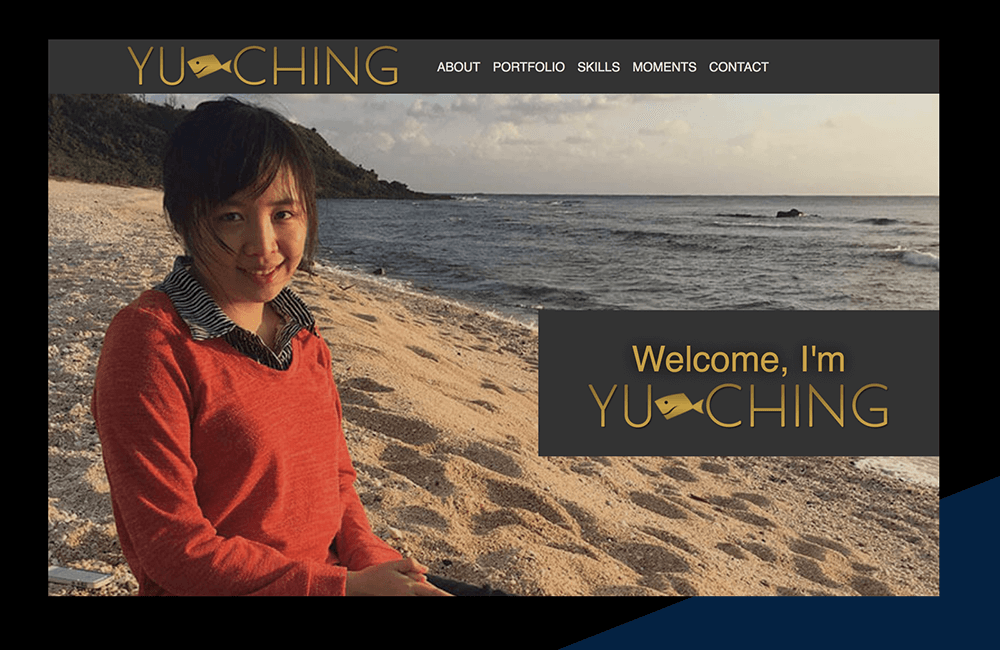
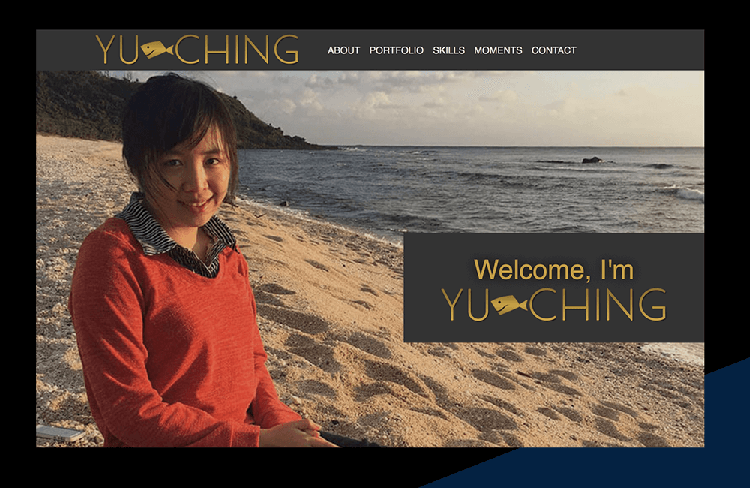
pic resize

diff --git a/about.html b/about.html
@@ -68,30 +68,33 @@
 		<div class="container">
 
 
-			<div class="col-12 col-lg-8" style="margin: 0 auto;">
+			<div class="col-12 col-lg-9" style="margin: 0 auto;">
 				<div class="bg-section">
 					<p>
 						<b>I am Yu-Ching, a UX/UI designer.</b>
 					</p>
 
-					<p>The reason that I love the UI/UX job is that it needs a lot of reflections. This job needs to think about
-						every aspect thoroughly and cultivating me to be open-minded and have the courage to deal with my own fault.
-						After the process, my thinking will be improved a lot.
+					<p>The reason that I love UX/UI design is that it requires many considerations. In this role, I need
+						to review every aspect of each project thoroughly, which helps cultivate open-mindedness. With
+						each completed project, my thinking process improves.
 					</p>
 
 					<p>
-						I graduated from <b>National Cheng Kung University</b> with a degree in <b>Psychology</b>. My
-						training taught
-						me to conduct psychology experiments, analyze data and draw conclusions. This robust foundation
-						has proven very helpful in understanding and conducting user research.
+						I received my degree in <b>Psychology</b> from <b>National Cheng Kung University</b>. Throughout
+						the course of
+						my studies, I learned how to conduct psychological experiments, analyze data, and draw
+						conclusions. This robust foundation has many applications and parallels in understanding and
+						conducting user research.
 
 					</p>
 
 					<p>
-						I born and grew up in <b>Taiwan</b> with a great zeal for exploring the world and learning
-						cross-domain. As a self-motivated individual, I keep pursuing cutting-edge design theory or
-						front-end techniques. I enjoy working with a combination of these elements to solve a problem or
-						create a user-centered design.
+						I was born and raised in <b>Taiwan</b> with a great zeal for exploring the world and learning.
+						As a
+						self-motivated worker, I continue to pursue learning opportunities for cutting-edge design
+						theory and front-end techniques. I enjoy working with a combination of elements when solving
+						problems or creating user-centered designs.
+
 					</p>
 
 					<p>
@@ -102,7 +105,7 @@
 
 					<div class="row sm-section">
 						<div class="col col-12 col-md-6">
-							<span>Fields I specialize in</span><br>
+							<span>Specializations</span><br>
 
 							Interface Design (Sketch, Figma, InVision)<br>
 							Front-end Development (CSS, JS, VueJS)<br>
@@ -111,7 +114,8 @@
 
 						<div class="col col-12 col-md-6">
 							<span>Connect with me</span><br>
-							yuyuchinglin@gmail.com<br>
+							E-mail: yuyuchinglin@gmail.com<br>
+							LinkedIn: Yu-Ching Lin
 
 						</div>
 
@@ -147,42 +151,51 @@
 				<div class="col-12 p-0" style="margin:0 auto">
 
 
-					<a target="_blank" href="https://www.instagram.com/p/B3wASTtFNGV/?utm_source=ig_web_button_share_sheet"
+					<a target="_blank"
+						href="https://www.instagram.com/p/B3wASTtFNGV/?utm_source=ig_web_button_share_sheet"
 						style="background-image: url(https://instagram.ftpe3-1.fna.fbcdn.net/vp/bad721eb732ec7f5363d6cd505780b39/5E4884DB/t51.2885-15/sh0.08/e35/s640x640/72581297_2372377662890314_8206483572672468511_n.jpg?_nc_ht=instagram.ftpe3-1.fna.fbcdn.net&_nc_cat=110);"
 						alt="flowers in Korea" class="ig-photo"></a>
 
-					<a target="_blank" href="https://www.instagram.com/p/BeXg-QFB62n/?utm_source=ig_web_button_share_sheet"
+					<a target="_blank"
+						href="https://www.instagram.com/p/BeXg-QFB62n/?utm_source=ig_web_button_share_sheet"
 						style="background-image: url(https://instagram.ftpe3-1.fna.fbcdn.net/vp/7d697e8a195fbbac3064981eba8992da/5E63B4CD/t51.2885-15/e35/26226688_342088369606569_1301617258124017664_n.jpg?_nc_ht=instagram.ftpe3-1.fna.fbcdn.net&_nc_cat=109);"
 						alt="Casino in Las Vegas" class="ig-photo"></a>
 
-					<a target="_blank" href="https://www.instagram.com/p/Be2RSlNBCV_/?utm_source=ig_web_button_share_sheet"
+					<a target="_blank"
+						href="https://www.instagram.com/p/Be2RSlNBCV_/?utm_source=ig_web_button_share_sheet"
 						style="background-image: url(https://instagram.ftpe3-2.fna.fbcdn.net/vp/9f584d5c84b2295a3bcded20b208dda3/5E543E2F/t51.2885-15/e35/26869636_167033143919585_8942020403014926336_n.jpg?_nc_ht=instagram.ftpe3-2.fna.fbcdn.net&_nc_cat=105);"
 						alt="Skateboard in Venice, California" class="ig-photo"></a>
 
 
-					<a target="_blank" href="https://www.instagram.com/p/BeA34Xwh2v1/?utm_source=ig_web_button_share_sheet"
+					<a target="_blank"
+						href="https://www.instagram.com/p/BeA34Xwh2v1/?utm_source=ig_web_button_share_sheet"
 						style="background-image: url(https://instagram.ftpe3-1.fna.fbcdn.net/vp/9ab23d18c6af04d64d40990c9ac54708/5E500C19/t51.2885-15/e35/26156981_1896254090705267_1688690297933922304_n.jpg?_nc_ht=instagram.ftpe3-1.fna.fbcdn.net&_nc_cat=111);"
 						alt="Driving in Los Angeles, California" class="ig-photo"></a>
 
 
-					<a target="_blank" href="https://www.instagram.com/p/BW13Fy8BXhA/?utm_source=ig_web_button_share_sheet"
+					<a target="_blank"
+						href="https://www.instagram.com/p/BW13Fy8BXhA/?utm_source=ig_web_button_share_sheet"
 						style="background-image: url(https://instagram.ftpe3-2.fna.fbcdn.net/vp/678a71e4bdc914d63713e0f451189b79/5E51BBB0/t51.2885-15/e35/20184726_728850670573099_3374121162366779392_n.jpg?_nc_ht=instagram.ftpe3-2.fna.fbcdn.net&_nc_cat=107);"
 						alt="Astonishing view in Greenwich Park, London" class="ig-photo"></a>
 
-					<a target="_blank" href="https://www.instagram.com/p/BWz8BZJh4Uz/?utm_source=ig_web_button_share_sheet"
+					<a target="_blank"
+						href="https://www.instagram.com/p/BWz8BZJh4Uz/?utm_source=ig_web_button_share_sheet"
 						style="background-image: url(https://instagram.ftpe3-2.fna.fbcdn.net/vp/29b3bff1c3e63257558d204a4122551e/5E62272A/t51.2885-15/e35/20181072_243928349450959_6118626120871968768_n.jpg?_nc_ht=instagram.ftpe3-2.fna.fbcdn.net&_nc_cat=107);"
 						alt="Portobello Road Market, London" class="ig-photo"></a>
 
-					<a target="_blank" href="https://www.instagram.com/p/BWyNLKRBv9v/?utm_source=ig_web_button_share_sheet"
+					<a target="_blank"
+						href="https://www.instagram.com/p/BWyNLKRBv9v/?utm_source=ig_web_button_share_sheet"
 						style="background-image: url(https://instagram.ftpe3-1.fna.fbcdn.net/vp/56b50d65e9dd8c1a8d4f9bff9e9119a5/5E5C813A/t51.2885-15/e35/20225505_103295190315285_7854362214960988160_n.jpg?_nc_ht=instagram.ftpe3-1.fna.fbcdn.net&_nc_cat=109);"
 						alt="Bath, United Kingdom" class="ig-photo"></a>
 
-					<a target="_blank" href="https://www.instagram.com/p/BWu8HHxB7w1/?utm_source=ig_web_button_share_sheet"
+					<a target="_blank"
+						href="https://www.instagram.com/p/BWu8HHxB7w1/?utm_source=ig_web_button_share_sheet"
 						style="background-image: url(https://instagram.ftpe3-2.fna.fbcdn.net/vp/ebe17ea593c8812223ccbec690ad7a25/5E3FBF55/t51.2885-15/e35/20066902_249656312192247_4750552868136681472_n.jpg?_nc_ht=instagram.ftpe3-2.fna.fbcdn.net&_nc_cat=103);"
 						alt="St. Paul's Cathedral in London" class="ig-photo"></a>
 
 
-					<a target="_blank" href="https://www.instagram.com/p/BWqLgXjhsm6/?utm_source=ig_web_button_share_sheet"
+					<a target="_blank"
+						href="https://www.instagram.com/p/BWqLgXjhsm6/?utm_source=ig_web_button_share_sheet"
 						style="background-image: url(https://instagram.ftpe3-2.fna.fbcdn.net/vp/02005a2a59cd8e4da40d8aeb3031eabf/5E5C1BBA/t51.2885-15/e35/19985944_118078338814669_6260914526212849664_n.jpg?_nc_ht=instagram.ftpe3-2.fna.fbcdn.net&_nc_cat=101);"
 						alt="At the Top SKY, Burj Khalifa" class="ig-photo"></a>
 
@@ -222,8 +235,10 @@
 							<h5><img src="./img/logo/name.png" alt="" height="30px" style="margin-top: 5px;"></h5>
 							<p><i class="fas fa-map-marker-alt"></i> Taipei, Taiwan</p>
 							<p><i class="fas fa-phone"></i> +886 972 231 459</p>
-							<p><i class="fas fa-envelope"></i> <a href="mailto:yuyuchinglin@gmail.com">yuyuchinglin@gmail.com</a></p>
-							<p><i class="fas fa-globe"></i> <a href="https://yuchinglin.com/">https://yuyuchinglin.github.io/</a></p>
+							<p><i class="fas fa-envelope"></i> <a
+									href="mailto:yuyuchinglin@gmail.com">yuyuchinglin@gmail.com</a></p>
+							<p><i class="fas fa-globe"></i> <a
+									href="https://yuchinglin.com/">https://yuyuchinglin.github.io/</a></p>
 						</div>
 					</div>
 				</div>
@@ -276,7 +291,7 @@
 				</div>
 
 				<div class="col-lg-4 col-sm-12 text-lg-left">
-					<span>COPYRIGHT © YUCHING 2017-2019</span>
+					<span>COPYRIGHT © YUCHING 2017-2020</span>
 				</div>
 
 

diff --git a/works/ruggon.html b/works/ruggon.html
@@ -279,8 +279,9 @@
 			<div class="seperate"> ·&nbsp;&nbsp;&nbsp;·&nbsp;&nbsp;&nbsp;·</div>
 
 			<div class="list">
-				<p><b>2. RuggON Tablet's prototype</b><a href="https://invis.io/HSS0TV48N45#/386499507_ruggon-App-Updates"
-						target="_blank" class="ml-2"><i class="fas fa-link"></i></a><br>
+				<p><b>2. RuggON Tablet's prototype</b><a
+						href="https://invis.io/HSS0TV48N45#/386499507_ruggon-App-Updates" target="_blank"
+						class="ml-2"><i class="fas fa-link"></i></a><br>
 					We have installed the RuggOTA application in our tablets, which users can use to check related
 					information and
 					download and update their tablet's system (firmware) and applications (software).
@@ -529,7 +530,7 @@
 				</div>
 
 				<div class="col-lg-4 col-sm-12 text-lg-left">
-					<span>COPYRIGHT © YUCHING 2017-2019</span>
+					<span>COPYRIGHT © YUCHING 2017-2020</span>
 				</div>
 			</div>
 		</div>

diff --git a/works/forest.html b/works/forest.html
@@ -182,8 +182,8 @@
 
 			<div class="codepen d-none d-xl-block" style="margin:0 auto; width:900px">
 
-				<p data-height="600" data-theme-id="0" data-slug-hash="BPPvQy" data-default-tab="result" data-user="yuchinglin"
-					data-pen-title="Questionnaire (drag&drop VanillaJS)" class="codepen">See
+				<p data-height="600" data-theme-id="0" data-slug-hash="BPPvQy" data-default-tab="result"
+					data-user="yuchinglin" data-pen-title="Questionnaire (drag&drop VanillaJS)" class="codepen">See
 					the Pen
 					<a href="https://codepen.io/yuchinglin/pen/BPPvQy/">Questionnaire (drag&drop VanillaJS)</a>
 					by yuchinglin (<a href="https://codepen.io/yuchinglin">@yuchinglin</a>)
@@ -387,7 +387,7 @@
 				</div>
 
 				<div class="col-lg-4 col-sm-12 text-lg-left">
-					<span>COPYRIGHT © YUCHING 2017-2019</span>
+					<span>COPYRIGHT © YUCHING 2017-2020</span>
 				</div>
 			</div>
 		</div>

diff --git a/works/personalwebsite.html b/works/personalwebsite.html
@@ -132,7 +132,8 @@
 				<p><b>Role:</b> UX/UI Design, Responsive Web Design</p>
 				<p><b>Time:</b> 2017/1 - Present</p>
 				<!-- <p><b>URL:</b> <a href="http://www.inspire-love.com/">Inspire Love Website</a></p>		 -->
-				<p><b>GitHub:</b> <a href="https://github.com/yuyuchinglin/yuyuchinglin.github.io">yuyuchinglin.github.io</a>
+				<p><b>GitHub:</b> <a
+						href="https://github.com/yuyuchinglin/yuyuchinglin.github.io">yuyuchinglin.github.io</a>
 					(GitHub
 					Page)</p>
 			</div>
@@ -480,7 +481,7 @@
 				</div>
 
 				<div class="col-lg-4 col-sm-12 text-lg-left">
-					<span>COPYRIGHT © YUCHING 2017-2019</span>
+					<span>COPYRIGHT © YUCHING 2017-2020</span>
 				</div>
 			</div>
 		</div>

diff --git a/index.html b/index.html
@@ -76,7 +76,8 @@
 
 					<div style="max-width: 520px; padding-top: 50px;" class="float-md-right">
 
-						<h1>I'm Yu-Ching — a designer who has a psychology background, design experience, and coding ability.
+						<h1>I'm Yu-Ching — a UX/UI designer with a psychology background, design experience, and coding
+							ability.
 						</h1>
 
 
@@ -255,7 +256,7 @@
 				</div>
 
 				<div class="col-lg-4 col-sm-12 text-lg-left">
-					<span>COPYRIGHT © YUCHING 2017-2019</span>
+					<span>COPYRIGHT © YUCHING 2017-2020</span>
 				</div>
 			</div>
 		</div>

diff --git a/works/1828WLJ.html b/works/1828WLJ.html
@@ -613,7 +613,7 @@
 				</div>
 
 				<div class="col-lg-4 col-sm-12 text-lg-left">
-					<span>COPYRIGHT © YUCHING 2017-2019</span>
+					<span>COPYRIGHT © YUCHING 2017-2020</span>
 				</div>
 			</div>
 		</div>

diff --git a/works/3sdrive.html b/works/3sdrive.html
@@ -458,7 +458,7 @@
 				</div>
 
 				<div class="col-lg-4 col-sm-12 text-lg-left">
-					<span>COPYRIGHT © YUCHING 2017-2019</span>
+					<span>COPYRIGHT © YUCHING 2017-2020</span>
 				</div>
 			</div>
 		</div>

diff --git a/works/amigowriting.html b/works/amigowriting.html
@@ -335,7 +335,7 @@
 				</div>
 
 				<div class="col-lg-4 col-sm-12 text-lg-left">
-					<span>COPYRIGHT © YUCHING 2017-2019</span>
+					<span>COPYRIGHT © YUCHING 2017-2020</span>
 				</div>
 			</div>
 		</div>

diff --git a/css/style.css b/css/style.css
@@ -239,7 +239,7 @@
 
   .sm-section {
     margin-top: 40px;
-    font-size: 1.1em;
+    font-size: 18px;
   }
 
 
